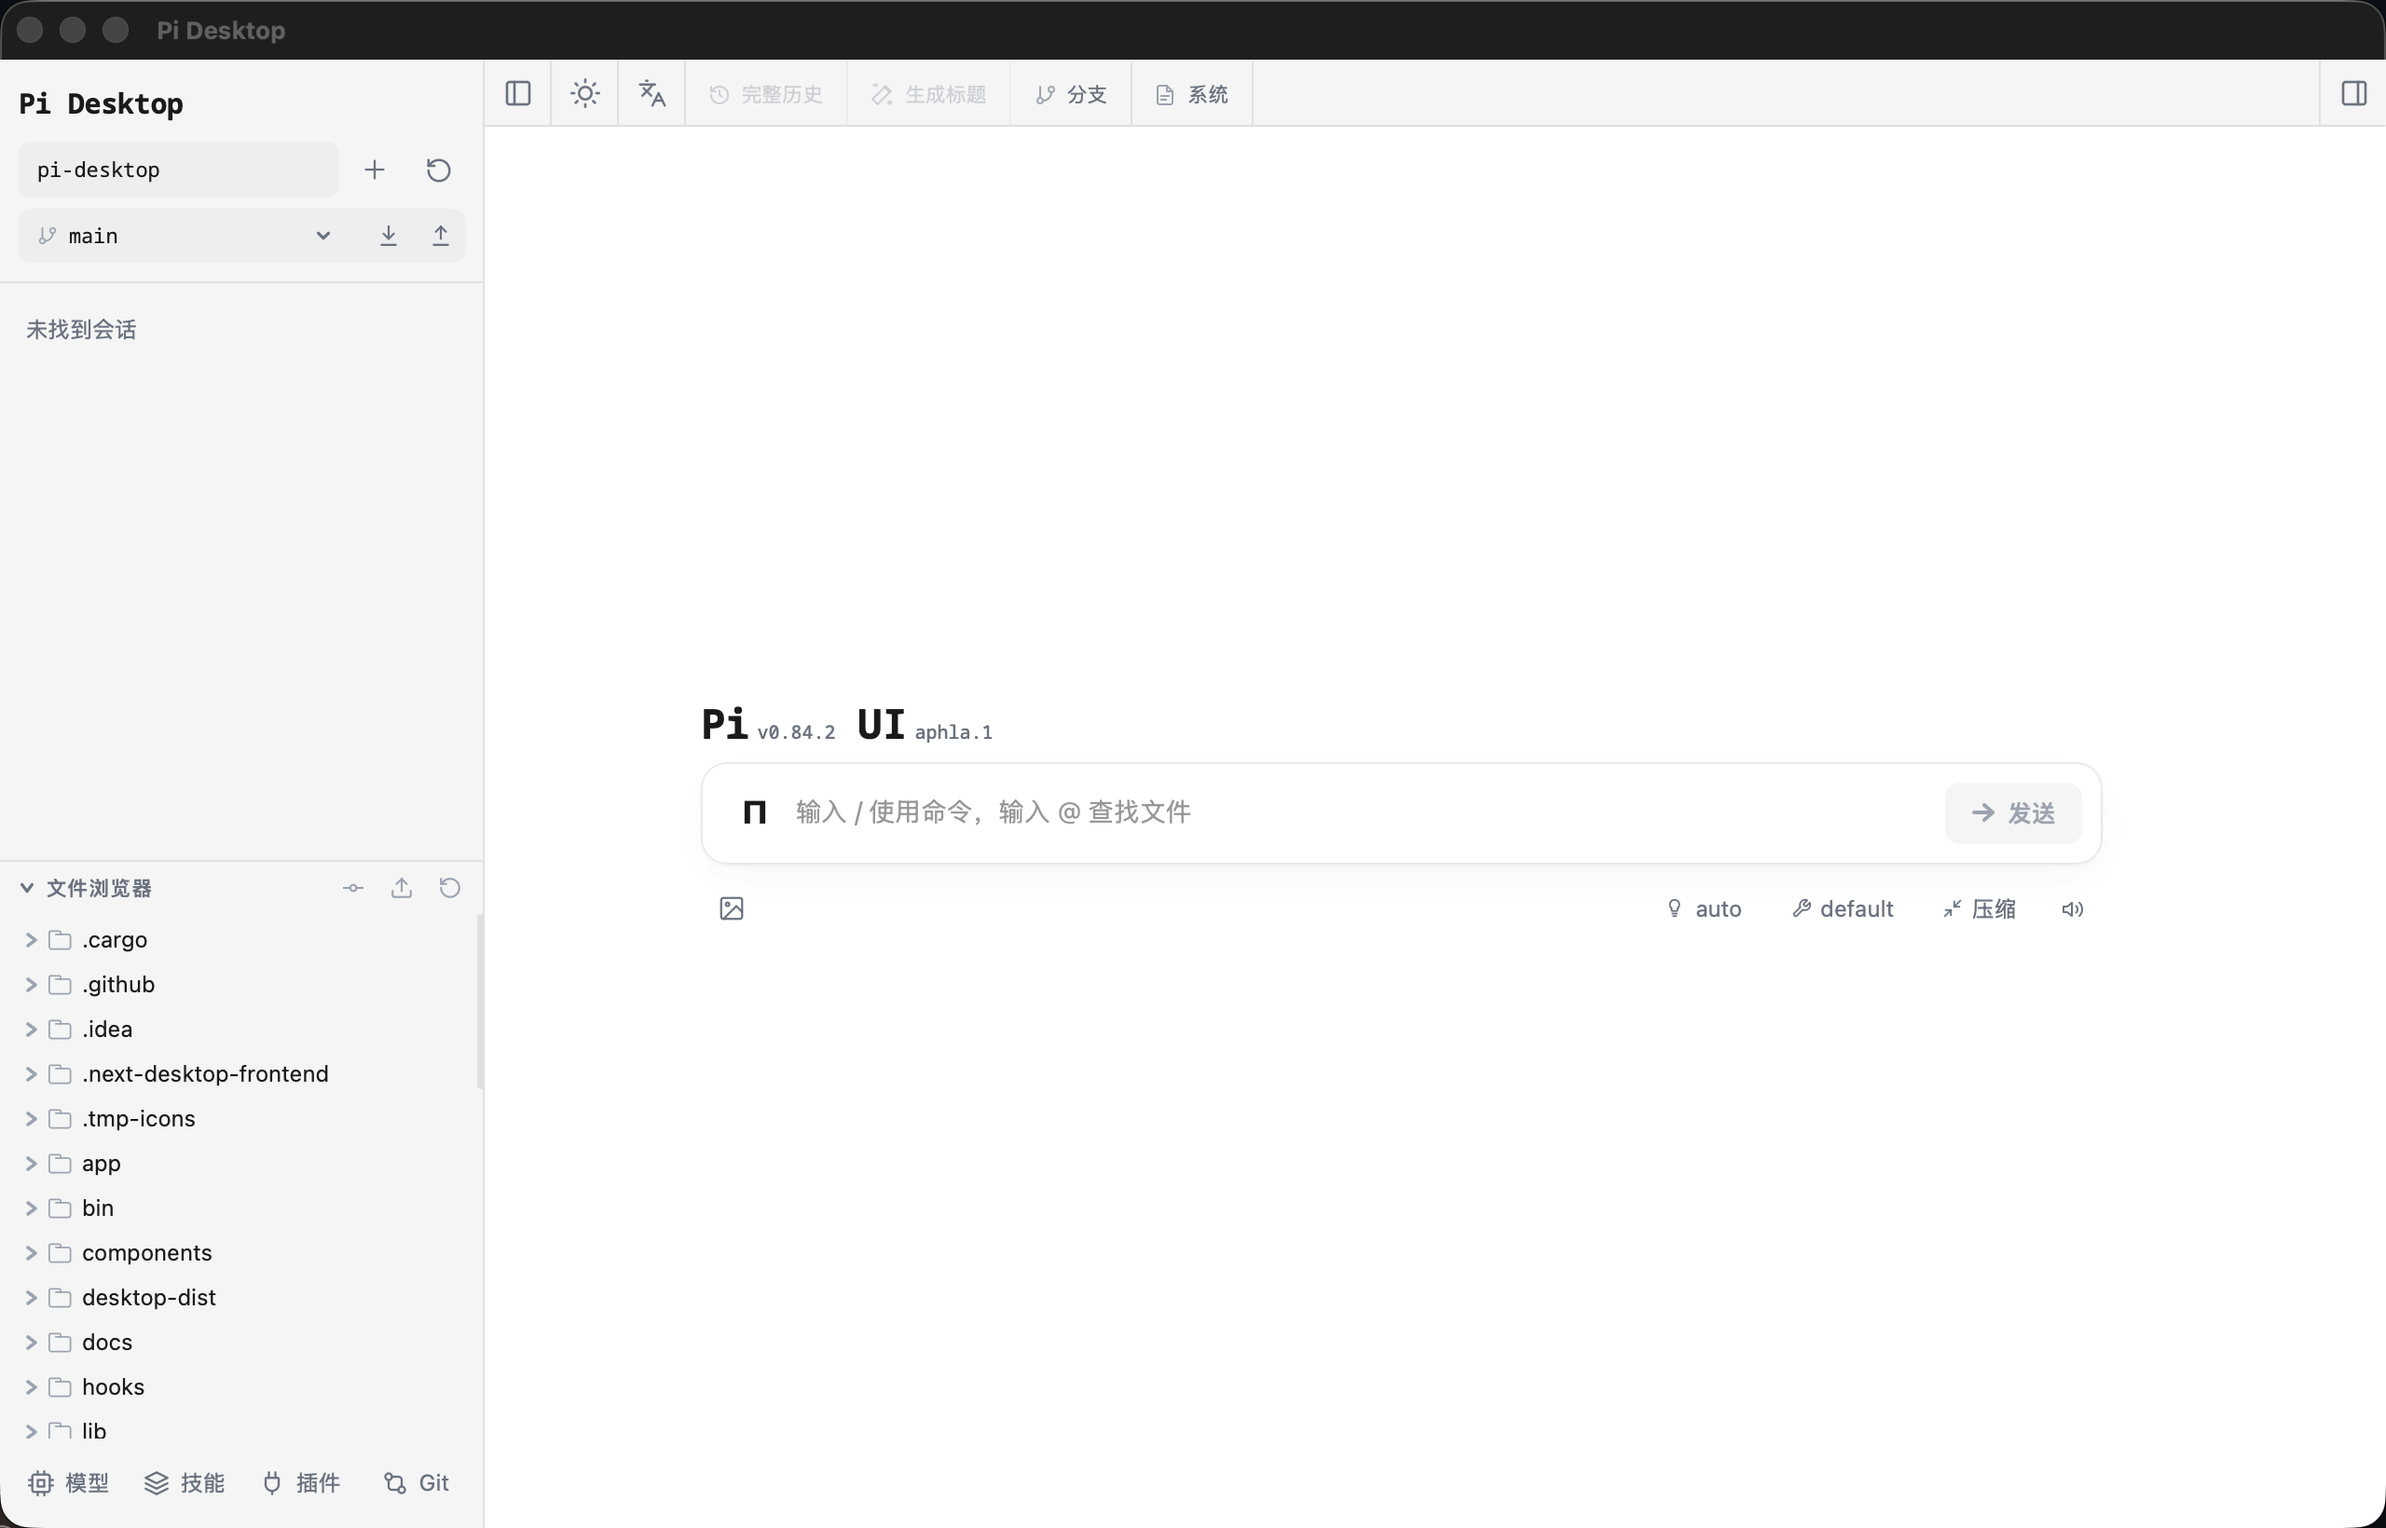
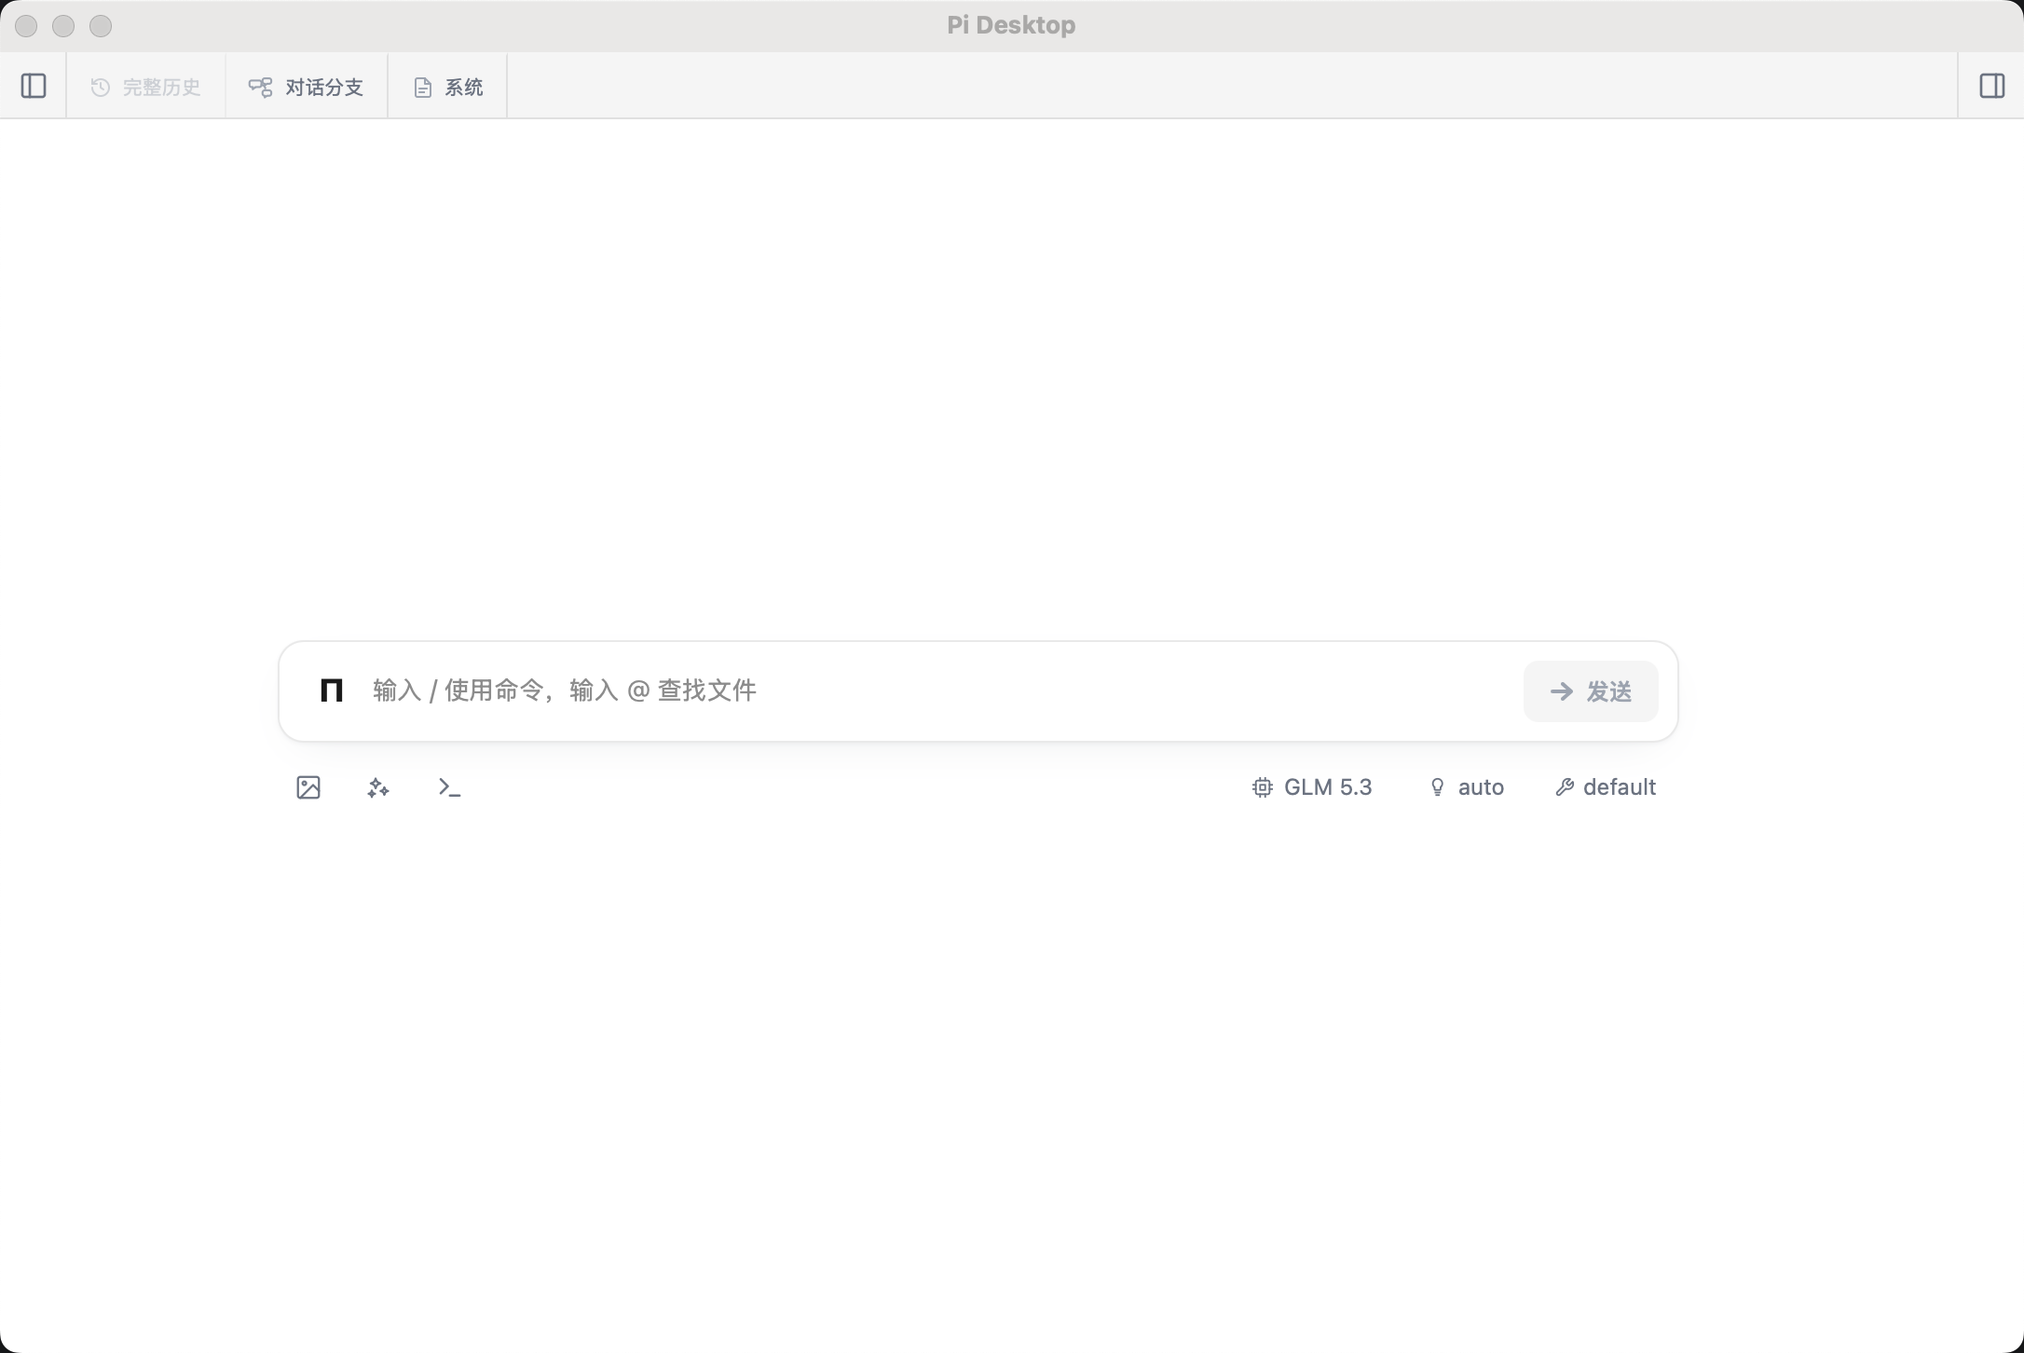
fix(docs): 更新 README 中的截图链接路径
- 修复了日文版 README 中的截图链接路径
- 修复了英文版 README 中的截图链接路径
- 修复了俄文版 README 中的截图链接路径
- 修复了中文版 README 中的截图链接路径
- 将外部链接改为相对路径以提高稳定性

diff --git a/README.ru.md b/README.ru.md
@@ -4,7 +4,7 @@
 
 Локальный браузерный интерфейс для [pi coding agent](https://github.com/earendil-works/pi). Pi Desktop использует те же локальные настройки и файлы сессий, что и pi, поэтому в браузере можно находить и продолжать диалоги, запускать агента, настраивать модели и ресурсы, а также просматривать файлы проекта.
 
-![Pi Desktop показывает сессию pi со структурированным Markdown, вызовами инструментов и навигацией по проекту](https://raw.githubusercontent.com/mafousoftware/pi-desktop/main/docs/screenshot.png)
+![Pi Desktop показывает сессию pi со структурированным Markdown, вызовами инструментов и навигацией по проекту](docs/screenshot.png)
 
 ## Возможности
 

diff --git a/README.ja.md b/README.ja.md
@@ -4,7 +4,7 @@
 
 [pi コーディングエージェント](https://github.com/earendil-works/pi) のローカルブラウザー UI です。Pi Desktop は pi と同じローカル設定とセッションファイルを使用し、ブラウザーから会話の検索と再開、エージェントの実行、モデルやリソースの設定、プロジェクトファイルの確認を行えます。
 
-![構造化された Markdown、ツール呼び出し、プロジェクトナビゲーションとともに pi セッションを表示する Pi Desktop](https://raw.githubusercontent.com/mafousoftware/pi-desktop/main/docs/screenshot.png)
+![構造化された Markdown、ツール呼び出し、プロジェクトナビゲーションとともに pi セッションを表示する Pi Desktop](docs/screenshot.png)
 
 ## 機能
 

diff --git a/README.zh-CN.md b/README.zh-CN.md
@@ -4,7 +4,7 @@
 
 [pi 编程智能体](https://github.com/earendil-works/pi)的本地浏览器界面。Pi Desktop 与 pi 共用本机配置和会话文件，可在浏览器中查找和继续对话、运行智能体、配置模型与资源，并查看项目文件。
 
-![Pi Desktop 展示包含结构化 Markdown、工具调用和项目导航的 pi 会话](https://raw.githubusercontent.com/mafousoftware/pi-desktop/main/docs/screenshot.png)
+![Pi Desktop 展示包含结构化 Markdown、工具调用和项目导航的 pi 会话](docs/screenshot.png)
 
 ## 功能
 

diff --git a/README.md b/README.md
@@ -6,7 +6,7 @@ Pi Desktop is a local browser UI for the [pi coding agent](https://github.com/ea
 
 UI version: `alpha.3`
 
-![Pi Desktop displaying a pi session with structured Markdown, tool calls, and project navigation](https://raw.githubusercontent.com/mafousoftware/pi-desktop/main/docs/screenshot.png)
+![Pi Desktop displaying a pi session with structured Markdown, tool calls, and project navigation](docs/screenshot.png)
 
 ## Features
 
